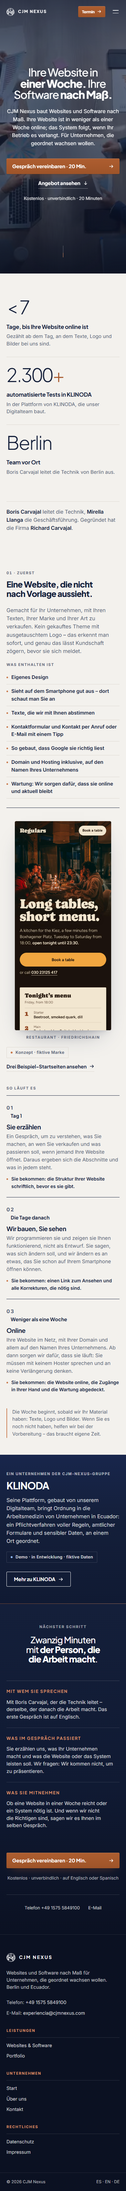
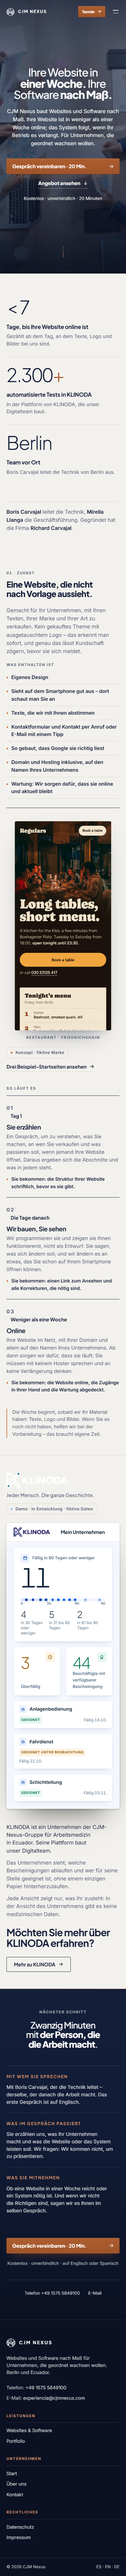
feat(i18n): KLINODA vuelve a la portada alemana y el inglés es el idioma principal
Decisiones de Boris (2026-09-19):
- La portada alemana recupera la escena de KLINODA y la noche, con los
  rótulos del portal de muestra en alemán; la escena de los dos tableros
  sigue fuera del alemán.
- «/» lleva siempre a /en y el x-default de los hreflang y del sitemap
  apunta a /en. /es y /de siguen igual.

diff --git a/cjm-nexus/src/content/home.de.js b/cjm-nexus/src/content/home.de.js
@@ -11,6 +11,9 @@
  * uns», en la línea de Richard. Nadie del equipo trabaja con soltura en
  * alemán: la primera conversación es en inglés, y se dice.
  *
+ * La escena de KLINODA y la noche vuelven a la portada alemana (Boris,
+ * 2026-09-19); la de los dos tableros, no.
+ *
  * La oferta de la web que va en medio es la de la página de servicio
  * (`servicios.de.js` → `digital.web`), no una copia.
  */
@@ -61,14 +64,43 @@ export const home = {
       '**Boris Carvajal** leitet die Technik, **Mirella Llanga** die Geschäftsführung. Gegründet hat die Firma **Richard Carvajal**.',
   },
 
-  /* KLINODA como banda (`ProductBand`), sin cifras: ya están en las
-     credenciales y en la página de servicio. Una puerta (regla 3). */
+  /* La escena de KLINODA (Boris, 2026-09-19: vuelve con la noche, como en
+     español e inglés). Una puerta (regla 3): enseña el producto, dice su
+     estado y lleva a su página. Demo con datos ficticios y solo los módulos
+     de su portal de empresa, con los rótulos en alemán: fechas «14.10.»,
+     «GEEIGNET» por «APTO» y los cargos como funciones, sin masculino genérico.
+     El texto, en la línea de lo aprobado: empresa del Grupo CJM Nexus, y su
+     plataforma la construye nuestro equipo digital. */
   klinoda: {
-    eyebrow: 'Ein Unternehmen der CJM-Nexus-Gruppe',
-    title: 'KLINODA',
-    text: 'Seine Plattform, gebaut von unserem Digitalteam, bringt Ordnung in die Arbeitsmedizin von Unternehmen in Ecuador: ein Pflichtverfahren voller Regeln, amtlicher Formulare und sensibler Daten, an einem Ort geordnet.',
-    estado: 'Demo · in Entwicklung · fiktive Daten',
-    cta: 'Mehr zu KLINODA',
+    etiqueta: 'Demo · in Entwicklung · fiktive Daten',
+    logo: 'KLINODA',
+    lema: 'Jeder Mensch. Die ganze Geschichte.',
+    seccion: 'Mein Unternehmen',
+    pestanas: ['Fristen', 'Bescheinigungen', 'Personal'],
+    plazos: {
+      rotulo: 'Fällig in 90 Tagen oder weniger',
+      total: 11,
+      eje: [0, 30, 60, 90],
+      tramos: [
+        { cuantos: 4, que: 'in 30 Tagen oder weniger', dias: [6, 13, 21, 27] },
+        { cuantos: 5, que: 'in 31 bis 60 Tagen', dias: [34, 40, 46, 52, 58] },
+        { cuantos: 2, que: 'in 61 bis 90 Tagen', dias: [69, 84] },
+      ],
+    },
+    vencidas: { cuantos: 3, rotulo: 'Überfällig' },
+    certificados: { cuantos: 44, rotulo: 'Beschäftigte mit verfügbarer Bescheinigung' },
+    cargos: [
+      { cargo: 'Anlagenbedienung', aptitud: 'GEEIGNET', vence: 'Fällig 14.10.' },
+      { cargo: 'Fahrdienst', aptitud: 'GEEIGNET UNTER BEOBACHTUNG', observacion: true, vence: 'Fällig 22.10.' },
+      { cargo: 'Schichtleitung', aptitud: 'GEEIGNET', vence: 'Fällig 03.11.' },
+    ],
+    frases: [
+      'KLINODA ist ein Unternehmen der CJM-Nexus-Gruppe für Arbeitsmedizin in Ecuador. Seine Plattform baut unser Digitalteam.',
+      'Das Unternehmen sieht, welche Bescheinigungen ablaufen und wer für seine Stelle geeignet ist, ohne einem einzigen Papier hinterherzulaufen.',
+      'Jede Ansicht zeigt nur, was ihr zusteht: In der Ansicht des Unternehmens gibt es keine medizinischen Daten.',
+    ],
+    pregunta: 'Möchten Sie mehr über KLINODA erfahren?',
+    boton: 'Mehr zu KLINODA',
   },
 
   /* El cierre: nombra a Boris y dice que la primera conversación es en

diff --git a/cjm-nexus/src/app/[lang]/page.jsx b/cjm-nexus/src/app/[lang]/page.jsx
@@ -24,8 +24,10 @@
  * REVISION-GENERAL.md, aprobada en .impeccable/TRADUCCION.md): en Berlín solo
  * se ofrece la línea digital, así que no hay dos líneas que pesar. Portada →
  * credenciales de la línea digital → la oferta de la web en una semana (con
- * su momento y las tres portadas) → KLINODA como banda → cierre. Sin la
- * escena de los tableros ni la de KLINODA; <Noche /> solo avisa del cierre.
+ * su momento y las tres portadas) → la escena de KLINODA con la noche →
+ * cierre. Sin la escena de los tableros (el 50/50). KLINODA vuelve con su
+ * escena por decisión de Boris (2026-09-19): es la prueba más visual de lo
+ * que construye el equipo digital.
  *
  * Este archivo solo COMPONE. Los textos viven en `src/content/` y la
  * maquetación en `src/blocks/registro/`.
@@ -37,7 +39,6 @@ import Portada from '../../blocks/registro/Portada';
 import PuertaKlinoda from '../../blocks/registro/PuertaKlinoda';
 import QueHacemos from '../../blocks/registro/QueHacemos';
 import Offer from '../../blocks/pages/Offer';
-import ProductBand from '../../blocks/pages/ProductBand';
 import SiteFooter from '../../components/SiteFooter';
 import SiteHeader from '../../components/SiteHeader';
 import { getDigital, getHome, getPortafolio } from '../../content';
@@ -55,7 +56,7 @@ export default function HomePage({ params }) {
           <Portada content={home.portada} />
           <Credenciales content={home.credenciales} />
           <Offer content={getDigital(lang).web} id="web" semana lang={lang} portafolio={getPortafolio(lang)} />
-          <ProductBand content={home.klinoda} href={`/${lang}/klinoda`} />
+          <PuertaKlinoda content={home.klinoda} lang={lang} />
           <Cierre content={home.cierre} lang={lang} />
           <Noche />
         </main>

diff --git a/cjm-nexus/src/middleware.js b/cjm-nexus/src/middleware.js
@@ -1,26 +1,18 @@
 /**
  * Middleware — solo actúa sobre la raíz "/".
- * Redirige "/" al idioma preferido del navegador (Accept-Language) y, si no
- * hay coincidencia, al español por defecto. Las URLs /es, /en y /de son
- * estáticas y no pasan por aquí.
+ *
+ * «/» lleva SIEMPRE al idioma principal, el inglés (Boris, 2026-09-19: «quien
+ * entra a cjmnexus.com a secas llega a /en»). Ya no se mira el idioma del
+ * navegador: antes, un navegador en español caía en /es. Las URLs /es, /en y
+ * /de son estáticas y no pasan por aquí; desde cualquiera de ellas el
+ * selector de idioma lleva a las otras.
  */
 import { NextResponse } from 'next/server';
-import { defaultLanguage, languages } from './i18n/settings';
-
-function pickLocale(acceptLanguage) {
-  if (!acceptLanguage) return null;
-  const requested = acceptLanguage.split(',').map((part) => part.split(';')[0].trim().toLowerCase());
-  for (const tag of requested) {
-    const base = tag.split('-')[0];
-    if (languages.includes(base)) return base;
-  }
-  return null;
-}
+import { defaultLanguage } from './i18n/settings';
 
 export function middleware(request) {
-  const locale = pickLocale(request.headers.get('accept-language')) || defaultLanguage;
   const url = request.nextUrl.clone();
-  url.pathname = `/${locale}`;
+  url.pathname = `/${defaultLanguage}`;
   return NextResponse.redirect(url);
 }
 

diff --git a/cjm-nexus/src/app/sitemap.js b/cjm-nexus/src/app/sitemap.js
@@ -17,10 +17,12 @@ export default function sitemap() {
   const lastModified = new Date();
 
   return RUTAS.filter((ruta) => ruta.sitemap !== false).flatMap((ruta) => {
+    const xDefault = ruta.langs.includes(defaultLanguage) ? defaultLanguage : ruta.langs[0];
     const alternates = {
-      languages: Object.fromEntries(
-        ruta.langs.map((l) => [l, `${SITE_URL}/${l}${ruta.path}`]),
-      ),
+      languages: {
+        ...Object.fromEntries(ruta.langs.map((l) => [l, `${SITE_URL}/${l}${ruta.path}`])),
+        'x-default': `${SITE_URL}/${xDefault}${ruta.path}`,
+      },
     };
 
     // Solo los idiomas en los que la página existe.
@@ -28,9 +30,8 @@ export default function sitemap() {
       url: `${SITE_URL}/${lang}${ruta.path}`,
       lastModified,
       changeFrequency: 'monthly',
-      // El español es el idioma escrito; el inglés y el alemán todavía sirven
-      // ese mismo contenido, así que pesan menos hasta que se traduzcan.
-      priority: lang === defaultLanguage ? ruta.priority : ruta.priority - 0.2,
+      // Los tres idiomas están escritos: pesan lo mismo.
+      priority: ruta.priority,
       alternates,
     }));
   });

diff --git a/cjm-nexus/src/lib/seo.js b/cjm-nexus/src/lib/seo.js
@@ -14,7 +14,7 @@
  * (/nosotros).
  */
 import { idiomasDe } from '../i18n/rutas.mjs';
-import { localeMap } from '../i18n/settings';
+import { defaultLanguage, localeMap } from '../i18n/settings';
 import { SITE_URL, SOCIAL_PROFILES } from './site';
 
 /**
@@ -81,7 +81,8 @@ export function pageMetadata({ lang, path = '', meta }) {
       languages: {
         // Solo los idiomas en los que esta página existe (`i18n/rutas.mjs`).
         ...Object.fromEntries(idiomasDe(path).map((l) => [l, `/${l}${path}`])),
-        'x-default': `/es${path}`,
+        // El idioma principal (el inglés); si la página no existe en él, el español.
+        'x-default': `/${idiomasDe(path).includes(defaultLanguage) ? defaultLanguage : 'es'}${path}`,
       },
     },
     openGraph: {

diff --git a/cjm-nexus/src/i18n/settings.js b/cjm-nexus/src/i18n/settings.js
@@ -1,9 +1,13 @@
 /**
  * Ajustes de internacionalización — CJM Nexus.
- * Cada idioma es una URL real e indexable: /es, /en, /de (español por defecto).
+ * Cada idioma es una URL real e indexable: /es, /en, /de.
+ *
+ * EL IDIOMA PRINCIPAL ES EL INGLÉS (Boris, 2026-09-19): «/» lleva a /en
+ * (`middleware.js`) y el x-default de los hreflang apunta a /en. Antes era
+ * el español, y «/» miraba el idioma del navegador.
  */
 export const languages = ['es', 'en', 'de'];
-export const defaultLanguage = 'es';
+export const defaultLanguage = 'en';
 
 /** El nombre de cada idioma en su propio idioma: el lector de pantalla del
     selector dice «English», no «en». No se traduce. */

diff --git a/cjm-nexus/src/blocks/registro/Noche.jsx b/cjm-nexus/src/blocks/registro/Noche.jsx
@@ -63,8 +63,8 @@ export default function Noche() {
     const mm = gsap.matchMedia();
 
     mm.add(MUEVE, () => {
-      /* Sin la escena de KLINODA (la portada alemana) no hay noche: el cierre,
-         oscuro por sí mismo, avisa a la cabecera como cualquier zona oscura. */
+      /* Una portada sin la escena de KLINODA no tiene noche: el cierre, oscuro
+         por sí mismo, avisa a la cabecera como cualquier zona oscura. */
       if (!puerta) {
         const cierre = document.querySelector('.cierre');
         return cierre ? vigilaZonaOscura(cierre, { alFinal: true }) : undefined;

diff --git a/cjm-nexus/src/app/[lang]/layout.jsx b/cjm-nexus/src/app/[lang]/layout.jsx
@@ -81,7 +81,7 @@ export function generateMetadata({ params }) {
     description: meta.description,
     alternates: {
       canonical: `/${lang}`,
-      // hreflang recíproco entre los tres idiomas + x-default al español
+      // hreflang recíproco entre los tres idiomas + x-default al idioma principal (el inglés)
       languages: { es: '/es', en: '/en', de: '/de', 'x-default': `/${defaultLanguage}` },
     },
     openGraph: {

diff --git a/PRODUCT.md b/PRODUCT.md
@@ -47,7 +47,7 @@ El segundo diferencial es **el método como garantía**, no como promesa: decisi
 - Next.js 14 App Router con generación estática, React 18, Tailwind (tokens de marca), GSAP. La app vive en la subcarpeta `cjm-nexus/`, no en la raíz del repositorio.
 - Despliegue en Vercel (Root Directory apuntando a `cjm-nexus/`), dominio `cjmnexus.com`.
 - **Ningún texto visible va quemado en los componentes.** Todo sale de `cjm-nexus/src/content/*.js`. Es la regla que permite revisar y aprobar los textos leyendo un solo archivo.
-- **Trilingüe ES/EN/DE es obligatorio** y cada idioma es una URL real e indexable (`/es`, `/en`, `/de`). **Alcance por idioma (19 de septiembre de 2026):** inglés, todo el sitio; alemán, solo la línea digital y «Nosotros», con trato de *Sie*. Qué página existe en qué idioma se decide en un solo sitio, `cjm-nexus/src/i18n/rutas.mjs`; las que no existen redirigen a la más cercana. Estado (19 de septiembre de 2026): español e inglés escritos; el alemán se escribe en la fase 3 de `.impeccable/TRADUCCION.md`, y hasta entonces `/de` sirve el español. Todo enlace interno lleva el idioma delante.
+- **Trilingüe ES/EN/DE es obligatorio** y cada idioma es una URL real e indexable (`/es`, `/en`, `/de`). **Alcance por idioma (19 de septiembre de 2026):** inglés, todo el sitio; alemán, solo la línea digital y «Nosotros», con trato de *Sie*. Qué página existe en qué idioma se decide en un solo sitio, `cjm-nexus/src/i18n/rutas.mjs`; las que no existen redirigen a la más cercana. Estado (19 de septiembre de 2026): los tres idiomas escritos (`.impeccable/TRADUCCION.md`). **El idioma principal es el inglés** (Boris, 19 de septiembre de 2026): `cjmnexus.com` a secas lleva a `/en` y el x-default de los hreflang apunta a `/en`; `/es` y `/de` funcionan igual. Se publica en los tres idiomas, alemán incluido. Todo enlace interno lleva el idioma delante.
 - **Ningún precio en la web.** Ni cifras, ni rangos, ni «desde». La pregunta «¿cuánto cuesta?» se responde remitiendo a la reunión de veinte minutos, que es distinto de esquivarla. Confirmado por el dueño el 5 de septiembre de 2026 y ratificado el 12 de septiembre.
 
 **Decisiones abiertas — no inventar la respuesta**

diff --git a/.impeccable/CONSTRUCCION.md b/.impeccable/CONSTRUCCION.md
@@ -1144,3 +1144,27 @@ portafolio y nosotros. La cabecera, marino hondo sobre el cierre alemán y papel
 
 **Sigue pendiente antes de publicar `/de`:** Impressum y Datenschutz (TRADUCCION.md, §4); imágenes para
 compartir por idioma (C8).
+
+### 2026-09-19 — KLINODA vuelve a la portada alemana, y el inglés es el idioma principal
+
+Decisiones de Boris:
+
+- **La portada alemana recupera la escena de KLINODA y la noche**, como en español e inglés, en lugar de
+  la banda sencilla: es la prueba más visual de lo que construye el equipo digital. La escena de los dos
+  tableros sigue fuera del alemán. `home.de.js` → `klinoda` lleva las claves de la escena: rótulos del
+  portal en alemán con datos ficticios («Fristen», «Bescheinigungen», «Personal»; «Überfällig»;
+  «GEEIGNET» y «GEEIGNET UNTER BEOBACHTUNG»; fechas «Fällig 14.10.»; cargos como funciones:
+  «Anlagenbedienung», «Fahrdienst», «Schichtleitung») y el texto en la línea de lo aprobado («ein
+  Unternehmen der CJM-Nexus-Gruppe für Arbeitsmedizin in Ecuador. Seine Plattform baut unser
+  Digitalteam.»). Lema: «Jeder Mensch. Die ganze Geschichte.»
+- **El inglés es el idioma principal:** `defaultLanguage = 'en'`; «/» lleva siempre a `/en`
+  (`middleware.js` ya no mira el idioma del navegador); x-default a `/en` en las páginas, la portada y
+  el sitemap, que ahora también lo declara; los tres idiomas con la misma prioridad. PRODUCT.md al día.
+- **Se publica en los tres idiomas**, alemán incluido (pendiente de que Boris diga «publica»).
+
+**Verificación** (producción): build sin errores. `/` → `/en` (307) con navegador en inglés, español,
+alemán y sin idioma. x-default `/en…` en `/es`, `/en`, `/de` y en las interiores; sitemap igual. Portada
+alemana a 1536 × 730 y 390 × 844: sin desbordamiento ni errores; la escena se fija y pasa por placa,
+tablero y texto; en el teléfono y con «reducir movimiento», en filas; nada cortado en el portal (la
+etiqueta «GEEIGNET UNTER BEOBACHTUNG» cabe en una línea); ninguna ruta a la dirección financiera ni
+texto en español. Capturas `de-klinoda-*` y `de-portada-*` en `.impeccable/traduccion/`.
